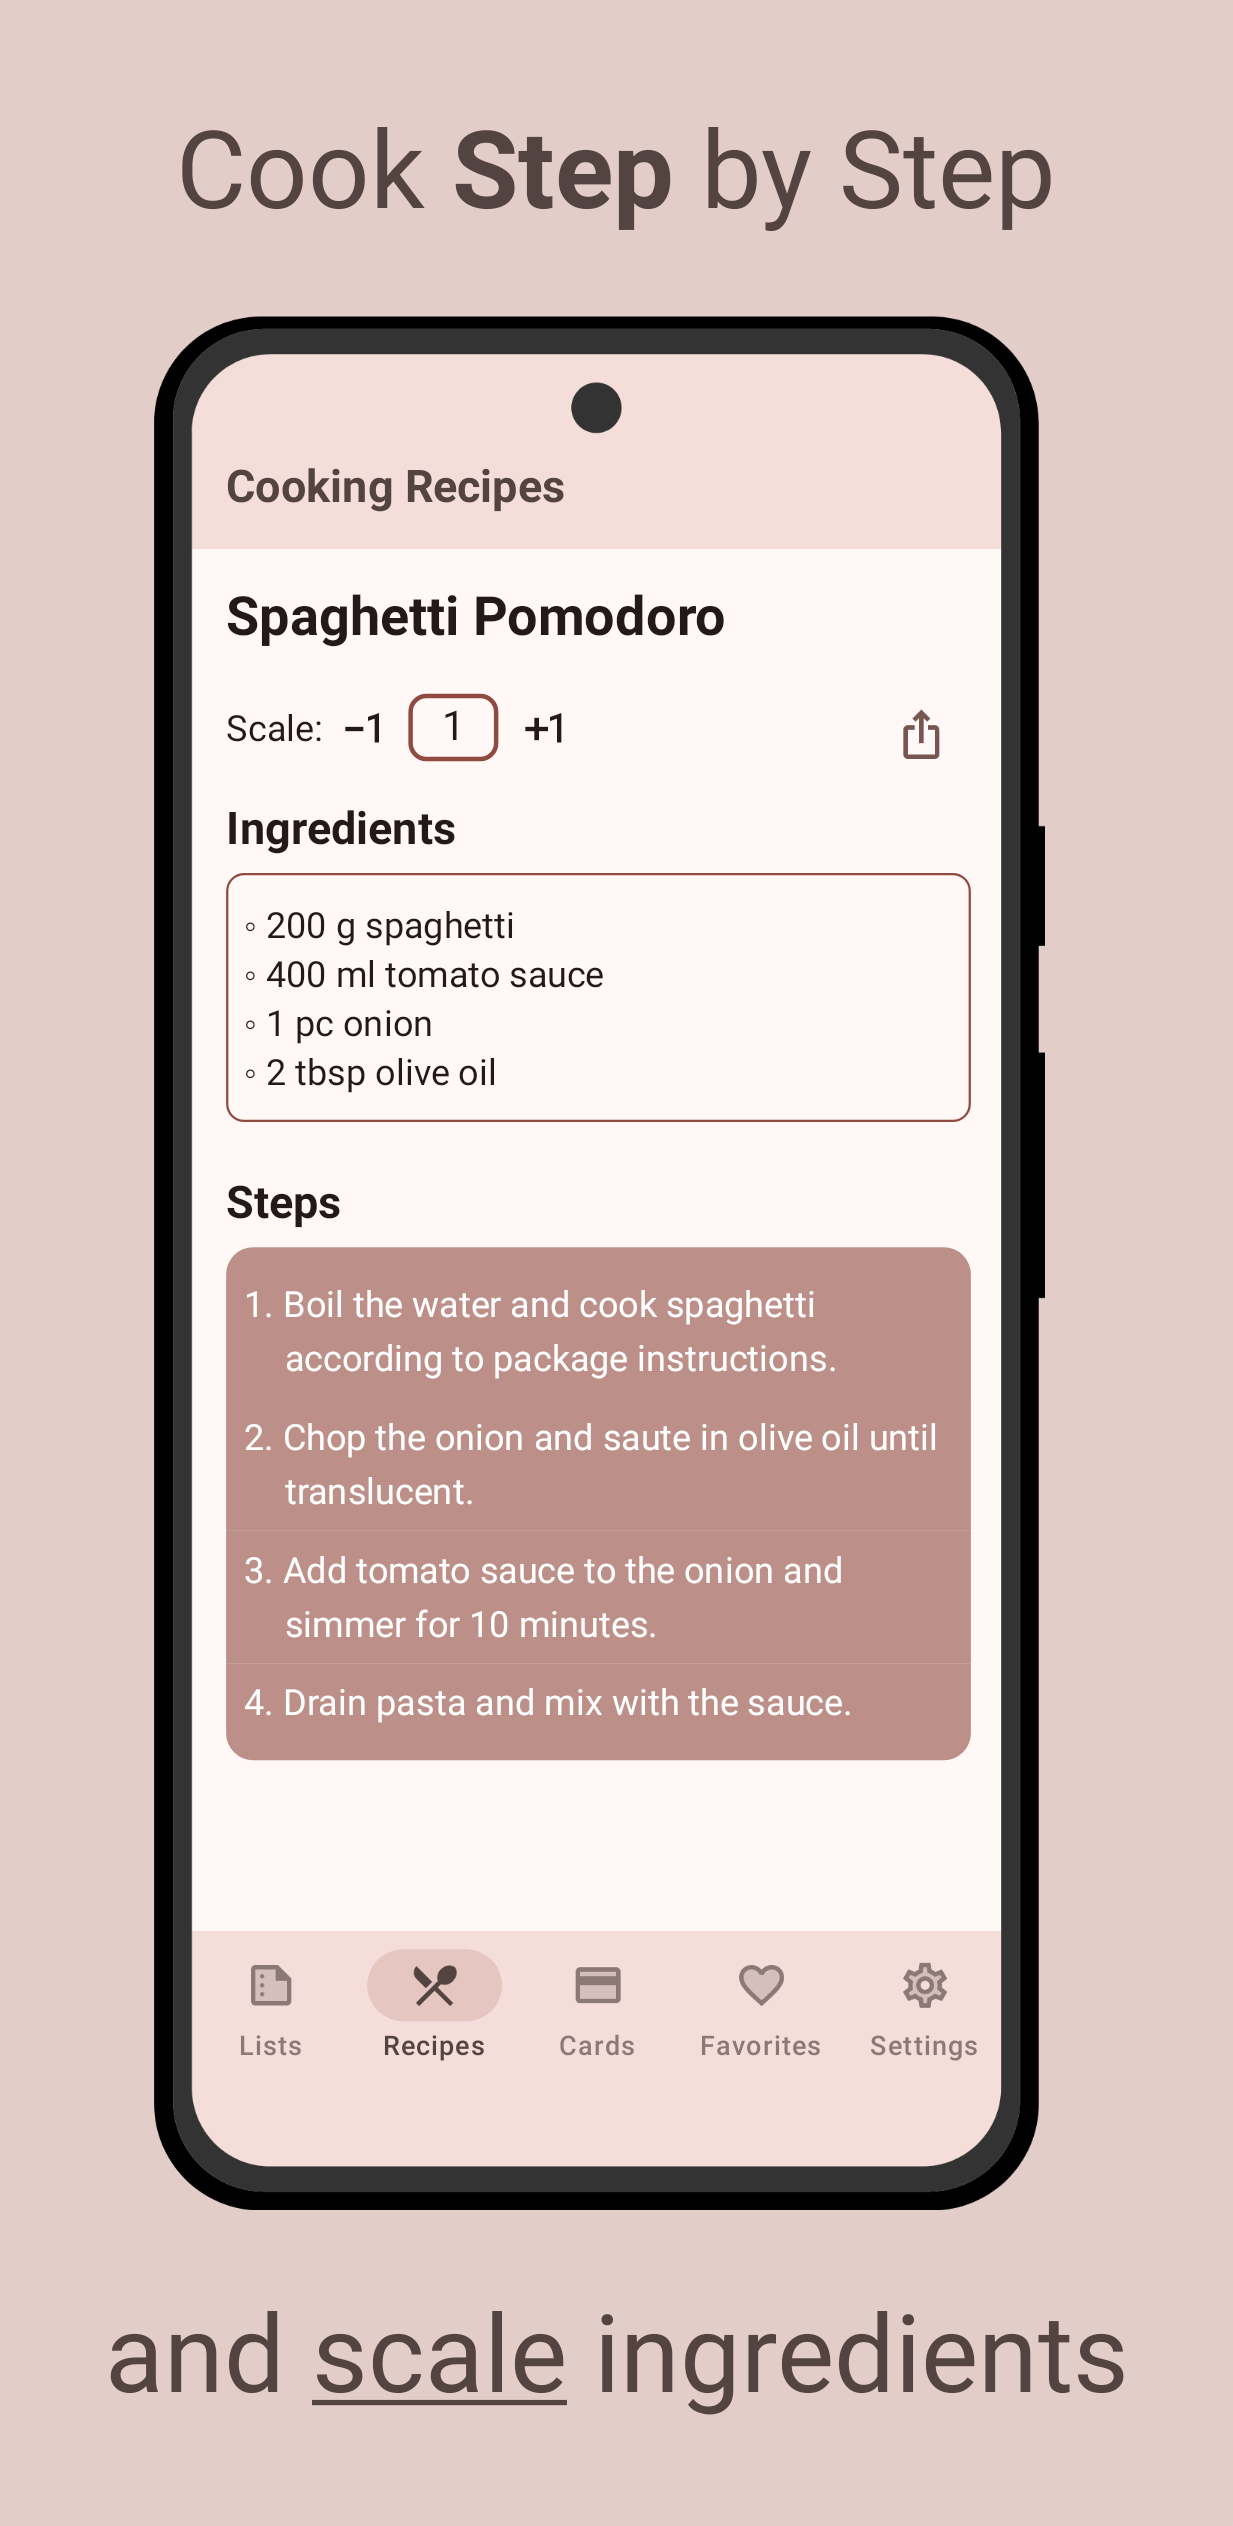
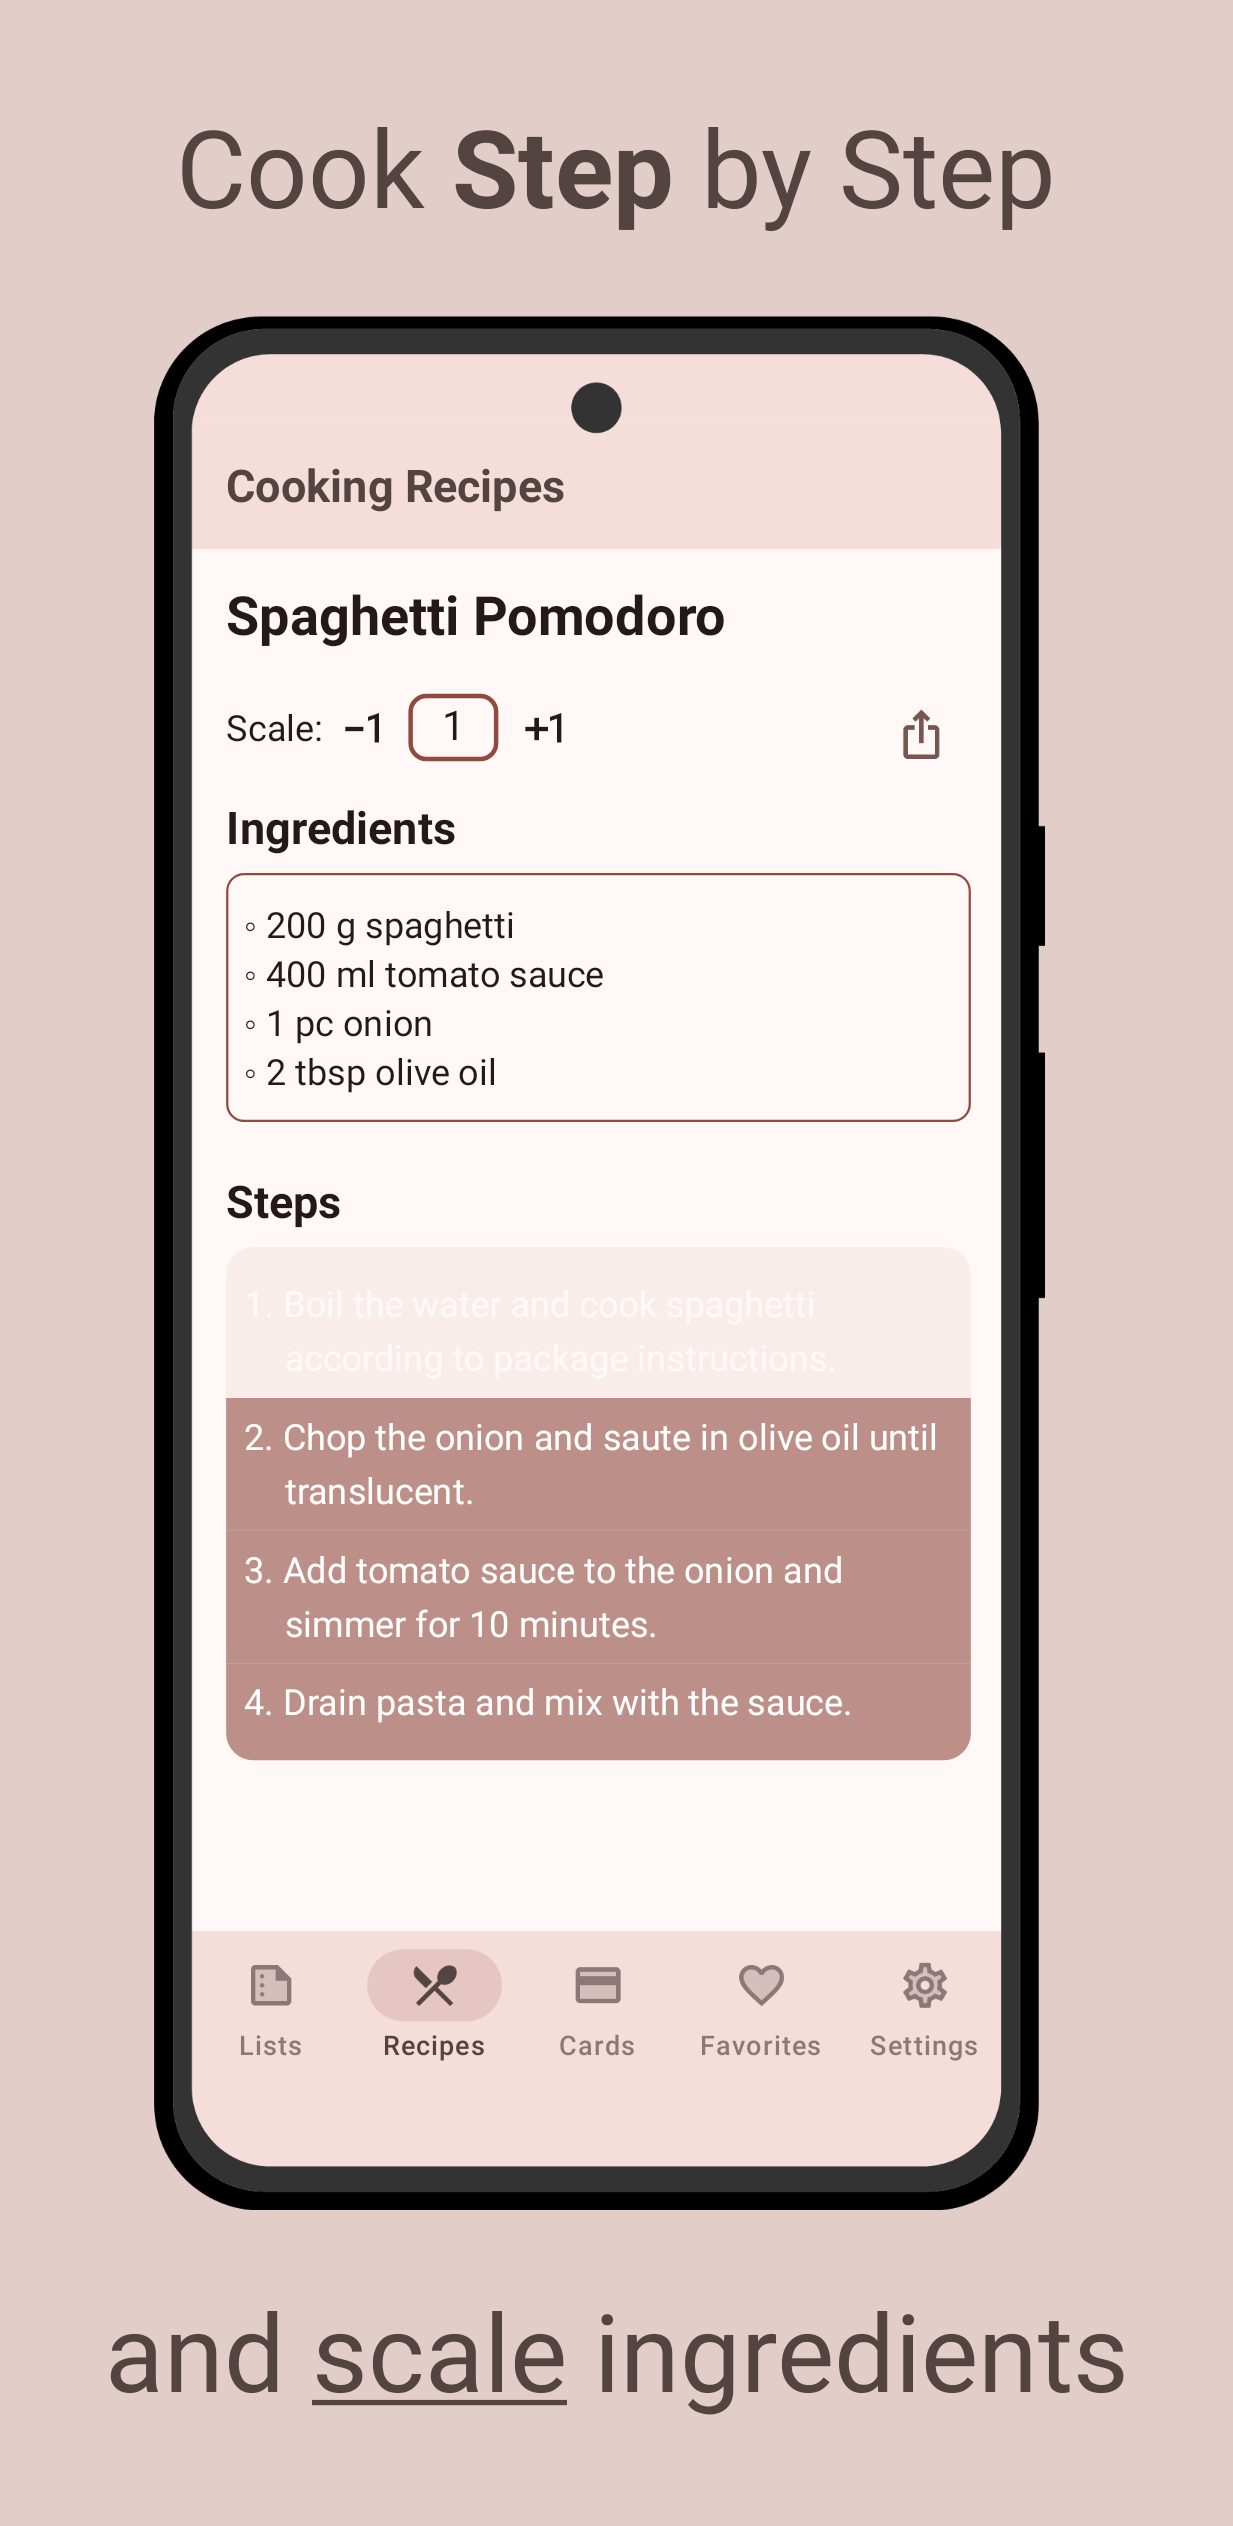
update recipe screen screenshots

Changed region(s): [[0.1849, 0.4941, 0.8013, 0.5558]]

diff --git a/app/src/androidUnitTest/kotlin/in/procyk/bring/test/RecipeScreenScreenshotTest.kt b/app/src/androidUnitTest/kotlin/in/procyk/bring/test/RecipeScreenScreenshotTest.kt
@@ -12,9 +12,11 @@ import androidx.compose.ui.graphics.Color
 import androidx.compose.ui.graphics.toArgb
 import androidx.compose.ui.test.ExperimentalTestApi
 import androidx.compose.ui.test.assertHasClickAction
+import androidx.compose.ui.test.doubleClick
 import androidx.compose.ui.test.onAllNodesWithTag
 import androidx.compose.ui.test.onFirst
 import androidx.compose.ui.test.performClick
+import androidx.compose.ui.test.performTouchInput
 import androidx.compose.ui.text.SpanStyle
 import androidx.compose.ui.text.buildAnnotatedString
 import androidx.compose.ui.text.font.FontWeight
@@ -116,6 +118,13 @@ internal class RecipeScreenScreenshotTest : BringAppCreateScreenshotTest() {
             .performClick()
 
         waitUntilExactlyOneTestTagExists("screen-recipe")
+
+        waitUntilExactlyOneTestTagExists("recipe-step-in-progress-0")
+        onAllNodesWithTag("recipe-step-in-progress-0")
+            .onFirst()
+            .performTouchInput { doubleClick(centerRight) }
+
+        waitUntilExactlyOneTestTagExists("recipe-step-done-0")
     }
 }
 

diff --git a/app/src/commonMain/kotlin/in/procyk/bring/ui/screen/RecipeScreen.kt b/app/src/commonMain/kotlin/in/procyk/bring/ui/screen/RecipeScreen.kt
@@ -19,6 +19,7 @@ import androidx.compose.ui.Modifier
 import androidx.compose.ui.draw.alpha
 import androidx.compose.ui.graphics.Color
 import androidx.compose.ui.input.pointer.pointerInput
+import androidx.compose.ui.platform.testTag
 import androidx.compose.ui.text.ParagraphStyle
 import androidx.compose.ui.text.buildAnnotatedString
 import androidx.compose.ui.text.style.TextIndent
@@ -200,6 +201,7 @@ internal fun RecipeScreen(
                                         amount += dragAmount
                                     }
                                 }
+                                .testTag("recipe-step-${if (doneStep >= index) "done" else "in-progress"}-$index")
                                 .fillMaxWidth(),
                             maxLines = Int.MAX_VALUE,
                             color = textColor,